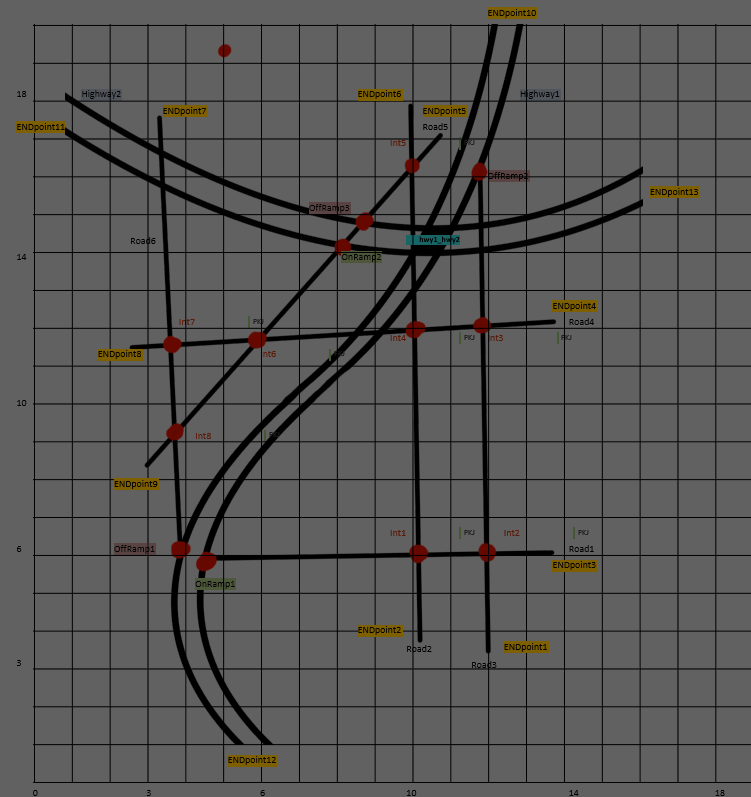
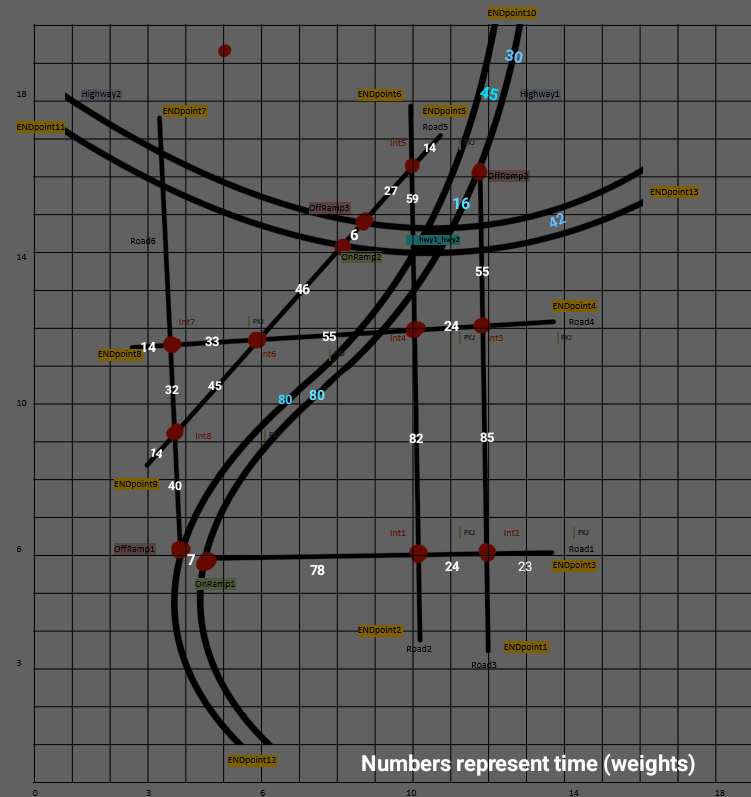
Added dijkstra functionality to traverse(), traverse() now uses the generated weighted graph to increment though a supplied list, going from node to node until reaching the end.
Speed assignment for truck movement and weighted graph generation has been fixed. Graph weights are now accurately represented in seconds.

New functionality added with weight_check(), which allows users to manually check the distance, speed limit of adjacent roads. Note that it can not check for same-road parents of non-adjacent nodes, this needs tobe added or an error will appear.

Now version 2.0.0

diff --git a/Discrete_Traffic_Event_Simulator/cityModel.py b/Discrete_Traffic_Event_Simulator/cityModel.py
@@ -103,7 +103,6 @@ class Truck:
         self.truck_state = truck_state
         self.fuel = fuel
 
-
         self.action = env.process(self.run())
 
     def enqueue(self):
@@ -131,76 +130,43 @@ class Truck:
     def traverse(self):
         global finished_trucks
         trip_count = 0
+        count = 0
         # Loop until destination arrived at
+
+        with open("graph.pkl", "rb") as f:
+            graph = pickle.load(f)
+        G = nx.from_dict_of_lists(graph)
+        path = nx.shortest_path(G, source=self.start_from.name, target=self.finish_at.name, weight='weight')
+        print(path)
+        path_list = [globals()[p] for p in path]
+        #print(path_list)
+
         while True:
             destinations = []  # Holds choices generated below
-            print(f"\n{self.name}")
+            print(f"{self.name}")
             print(f"{self.name} Preparing to move from {self.start_from.name}")
-            for i in self.start_from.connections:
-                # Passes current location's parent road index to curr_indexroad
-                current_index = self.start_from.connections.index(i)
-                # passes current i of current_parent_road
-                current_parent_road = self.start_from.connections[current_index]
-                print(f"[{current_index + 1}/{len(self.start_from.connections)}]")
-                # Current road
-                print(f"Generating travel options from "
-                      f"{self.start_from.name}'s {current_parent_road.name} parent connection")
 
-                print(end=f"{current_parent_road.name}: [")
-                for location in current_parent_road.connections:
-                    print(location.name, end=", ")
-                print(end="]")
-                curr_road_index = current_parent_road.connections.index(self.start_from)
+            shared_road = set(path_list[count].connections).intersection(path_list[count+1].connections)
+            # set doesn't support index element accessing, you need to loop
+            for i in shared_road:
+                shared_road = i
 
-                print(f"\nChecking closest travel options for {self.start_from.name},"
-                      f" currently index [{curr_road_index}] in its parent {current_parent_road.name}")
-                # Check if objects after current index
-                if curr_road_index < len(current_parent_road.connections) - 1:
-                    # Next potential locale becomes next_place
-                    next_place = current_parent_road.connections[curr_road_index + 1]
-                    print(f"    ! Right index is {next_place.name}")
-
-                    # if next is same as last place and endpoint, no
-                    if next_place == self.previous_location and isinstance(next_place, EndPoint):
-                        print(f"    ! {next_place.name} was the last place, not appending")
-                    else:
-                        print(f"    + Appending right index {next_place.name}")
-                        destinations.append(next_place)  # add next_place to11
-                        print(current_parent_road.speed)
-                else:
-                    print("     ? There is no right index")
-                if curr_road_index > 0:  # # Check if objects before current index
-                    next_place = current_parent_road.connections[curr_road_index - 1]
-                    print(f"    ! Left index is {next_place.name}")
-
-                    if next_place == self.previous_location and isinstance(next_place, EndPoint):
-                        print(f"    ! {next_place.name} was the last place, not appending")
-                        pass
-                    else:
-                        print(f"    + Appending left index {next_place.name}")
-                        destinations.append(next_place)
-                        print(current_parent_road.speed)
-                else:
-                    print("     ? There is no left index")
-
-            print(end=f"Places that {self.name} can travel to: ")
-            for i in destinations:
-                print(f"{i.name}", end=', ')
-
-            random_choice = random.choice(destinations)
-            self.travel_next = random_choice
-            self.previous_location = self.start_from
-            self.start_from = random_choice
+            count += 1
+            self.travel_next = path_list[count]
+            self.previous_location = path_list[count-1]
+            self.start_from = path_list[count]
             trip_count += 1
 
-            print(f"\n{self.name} randomly picks {random_choice.name}")
+            print(f"\n{self.name} picks {path_list[count].name}")
             miles_between, coord_distance = distance(self.previous_location, self.start_from)
-            trip_length, trip_speed = travel_time(miles_between, current_parent_road.speed)
-            print(current_parent_road.speed)
+
+
+            trip_length, trip_speed = travel_time(miles_between, shared_road.speed)
+            print(shared_road.speed)
             print(f"Trip expected to last {trip_length} seconds at {trip_speed}mph")
 
             yield env.process(self.coordinate_crawl(coord_distance, trip_length, trip_speed))
-            #yield env.timeout(trip_length)
+            # yield env.timeout(trip_length)
             yield env.process(self.enqueue())
             print(f"{trip_count} movements, current time {env.now}")
 
@@ -279,14 +245,14 @@ class Truck:
 
 graph = {}
 def append_graph(node, next, speed):
-    print(node, next)
-    d = distance(node, next)
-    print(d)
-    seconds, t = travel_time(d[1], speed)
+    print(node.name, next.name)
+    miles, dist = distance(node, next)
+    print(f"{miles} miles")
+    seconds, t = travel_time(miles, speed)
     weight = seconds
 
     graph[node.name].update({next.name: weight})
-    print(f"{d} miles between {node.name} and {next.name} at speed {speed} , weight {weight} ")
+    print(f"{miles} miles between {node.name} and {next.name} at speed {speed} , weight {weight} ")
     key = node.name
     print(f"\033[34m'{key}': {graph[node.name]}\033[0m")
 
@@ -324,6 +290,36 @@ def graph_start(global_list):
 
     else:
         pass
+def weight_check():
+    # Manually check distances and weight between nodes (time)
+    inputer = input(f"\033[31mUse distance and speed functions?\033[0m y / n  ")  # Exit this funct if no
+    if inputer == 'y' or inputer == 'Y':
+        while True:
+            # get the names of the road-network objects
+            locale1 = input("Enter place 1 name exactly:")
+            locale2 = input("Enter place 2 name exactly:")
+            # convert string to object pointers
+            locale1 = globals()[locale1]
+            locale2 = globals()[locale2]
+            miles, dist = distance(locale1, locale2)
+            for i in locale1.connections:
+                print(f"    {locale2.name} connections:", i.name)
+            for i in locale1.connections:
+                print(f"    {locale1.name} connections:", i.name)
+            shared_road = set(locale1.connections).intersection(locale2.connections)
+
+            # set doesn't support index element accessing, you need to loop
+            for i in shared_road:
+                shared_road = i
+            print(f"    {locale1.name} and {locale2.name} share the road {shared_road.name}")
+            print(f"{shared_road.speed} is the speed limit of {shared_road.name}")
+            print(f"Distance between {locale1.name} and {locale2.name} is {miles} miles")   
+            # time = distance / speed
+            weight, speed = travel_time(miles, shared_road.speed)
+            print(f"The time (weight) to travel from {locale1.name} to {locale2.name} is {weight} seconds (rounded)")
+            print("\n")
+        pass
+
 
 def graph_make(global_list):
     for node in global_list:
@@ -358,7 +354,11 @@ def graph_make(global_list):
                 print(f"    ! Right index is {next_place.name}")
                 print(f"    + Appending right index {next_place.name}")
                 destinations.append(next_place)  # add next_place to11
-                append_graph(node, next_place, current_parent_road.speed)
+                shared_road = set(node.connections).intersection(next_place.connections)
+                # set doesn't support index element accessing, you need to loop
+                for i in shared_road:
+                    shared_road = i
+                append_graph(node, next_place, shared_road.speed)
             else:
                 print("    ? There is no right index")
             if node_index_within_parent > 0:  # # Check if objects before current index
@@ -366,7 +366,11 @@ def graph_make(global_list):
                 print(f"    ! Left index is {next_place.name}")
                 print(f"    + Appending left index {next_place.name}")
                 destinations.append(next_place)
-                append_graph(node, next_place, current_parent_road.speed)
+                shared_road = set(node.connections).intersection(next_place.connections)
+                # set doesn't support index element accessing, you need to loop
+                for i in shared_road:
+                    shared_road = i
+                append_graph(node, next_place, shared_road.speed)
             else:
                 print("    ? There is no left index")
             print("\n")
@@ -403,7 +407,6 @@ def distance(location1, location2):
     feet = dist * feet_per_increment
     # feet converted to miles, rounded to 2 places
     miles = round(feet * 0.0001894, 2)
-    print(f"{miles} miles between {location1.name} and {location2.name}")
     return miles, dist
 
 
@@ -566,7 +569,7 @@ hwy1 = Highway('highway1', [], 45)
 hwy2 = Highway('highway2', [], 45)
 
 # Highway Intersection instantiation (1 hwy intersect)
-highwayIntersection1 = HwyIntersection("Hw1_Hw2", (10.5, 14.4), [hwy1, hwy2], 1)
+Hw1_Hw2 = HwyIntersection("Hw1_Hw2", (10.5, 14.4), [hwy1, hwy2], 1)
 
 # Road instantiation (6 roads)
 road1 = Road('road1', [], 25)
@@ -617,8 +620,8 @@ road5.connections += [endpoint5, intersection5, offRamp3, onRamp2, intersection6
 road6.connections += [endpoint7, intersection7, intersection8, offRamp1]
 
 #  circular dependency, append objects to highways to prevent error
-hwy1.connections += [endpoint10, offRamp2, highwayIntersection1, offRamp1, onRamp1, endpoint12]
-hwy2.connections += [endpoint11, onRamp2, offRamp3, highwayIntersection1, endpoint13]
+hwy1.connections += [endpoint10, offRamp2, Hw1_Hw2, offRamp1, onRamp1, endpoint12]
+hwy2.connections += [endpoint11, onRamp2, offRamp3, Hw1_Hw2, endpoint13]
 
 
 
@@ -629,8 +632,8 @@ env.process(second_key_maker(env))
 #def __init__(self, env, name, occupants, start_from, previous_location, travel_next, finish_at, turt, turt_text, idle_rate, mpg, weight, truck_state)
 Truck1 = Truck(env, 'Truck1', 2, endpoint3, [], [], endpoint9, '', '', 0.000055556, 27, 100, '', 120)
 Truck2 = Truck(env, 'Truck2', 2, endpoint3, [], [], endpoint9, '', '', 0.000055556, 27, 100, '', 120)
-Truck3 = Truck(env, 'Truck3', 2, endpoint3, [], [], endpoint9, '', '', 0.000055556, 27, 100, '', 120)
-Truck4 = Truck(env, 'Truck4', 2, endpoint3, [], [], endpoint9, '', '', 0.000055556, 27, 100, '', 120)
+Truck3 = Truck(env, 'Truck3', 2, endpoint3, [], [], endpoint13, '', '', 0.000055556, 27, 100, '', 120)
+Truck4 = Truck(env, 'Truck4', 2, endpoint3, [], [], endpoint5, '', '', 0.000055556, 27, 100, '', 120)
 Truck5 = Truck(env, 'Truck5', 2, endpoint3, [], [], endpoint9, '', '', 0.000055556, 27, 100, '', 120)
 
 
@@ -659,7 +662,7 @@ if __name__ == '__main__':  # Main guard, prevents running sim on module import 
 
     print("Localgists ShippingTM (LGS) 2023\n\n"
           "Discrete Event Simulator for Delivery truck operation, follow on-screen prompts to begin.\n"
-          "- Version 1.1.1\n")
+          "- Version 2.0.0\n")
     choice = input("\033[34m Run DES?\033[0m y / n  ")
     if choice == 'y' or choice == 'Y':
         env.run(until=sim_time)
@@ -677,6 +680,6 @@ if __name__ == '__main__':  # Main guard, prevents running sim on module import 
             dict_looper(process_locations_per_second)
         else:
             pass
-
+    weight_check()
     graph_start(global_node_list)
 
